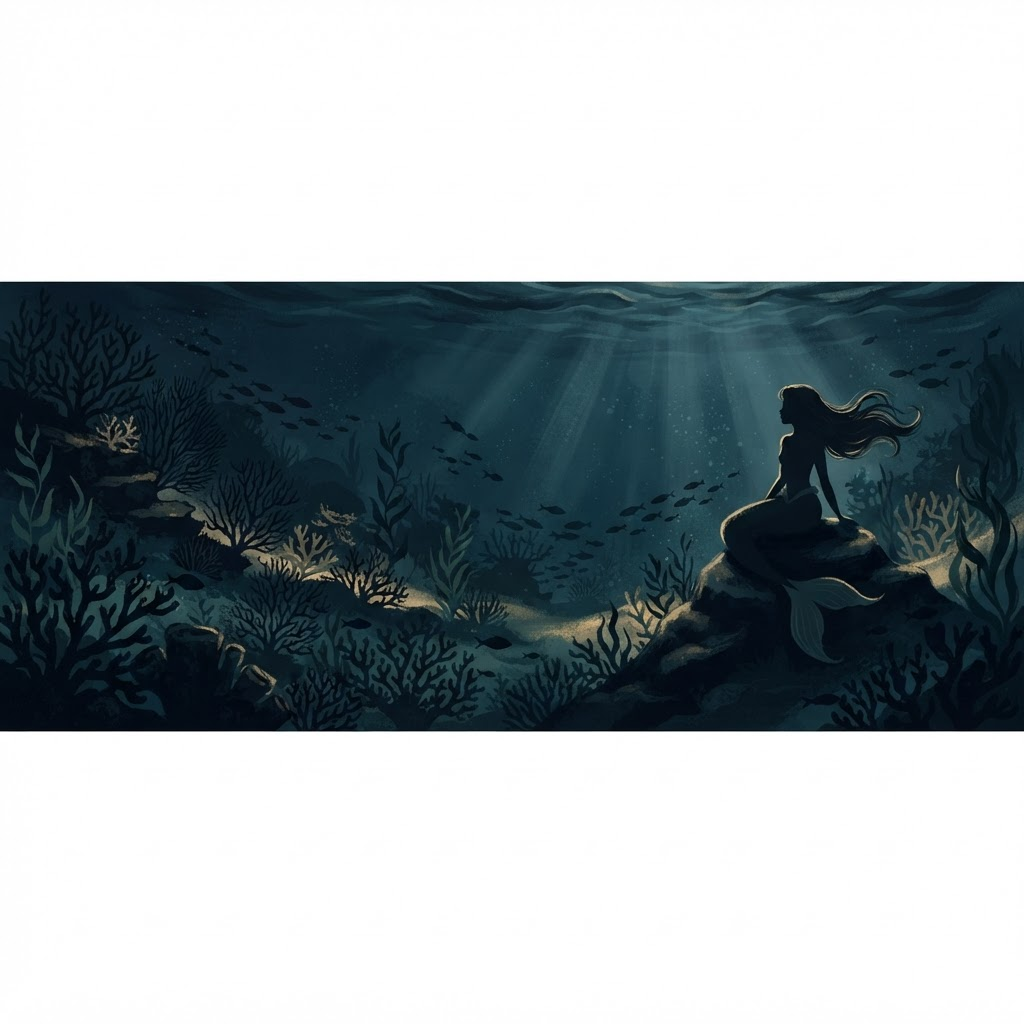
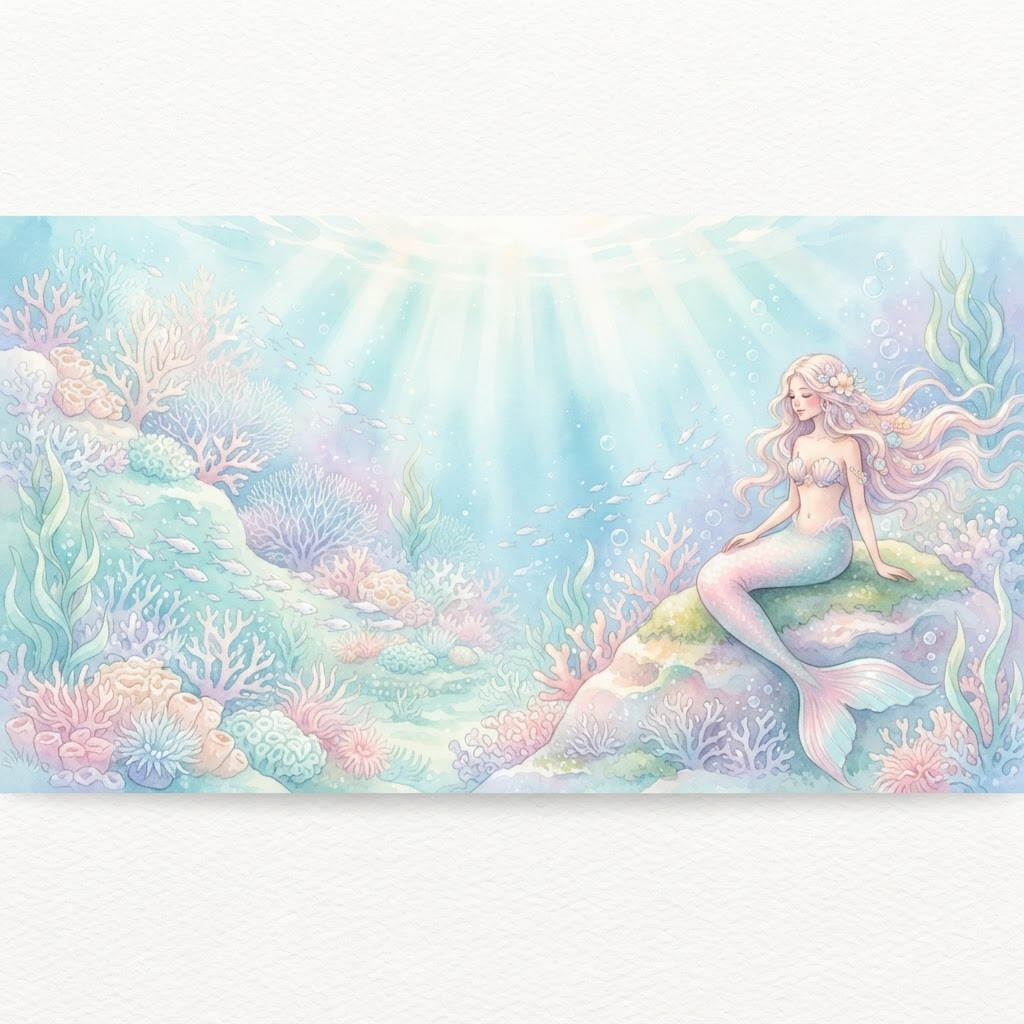
feat: switch app theme from dark to light palette

diff --git a/components/bottle-tide.tsx b/components/bottle-tide.tsx
@@ -113,7 +113,7 @@ export function BottleTide({ initialStats }: { initialStats: OceanStats }) {
         {/* ---------- Cast a bottle ---------- */}
         <section
           aria-labelledby="cast-heading"
-          className="rounded-3xl border border-border bg-card/70 p-6 shadow-[0_20px_60px_oklch(0.13_0.04_248/45%)] backdrop-blur-md sm:p-8"
+          className="rounded-3xl border border-border bg-card/80 p-6 shadow-[0_18px_50px_oklch(0.6_0.098_254/18%)] backdrop-blur-md sm:p-8"
         >
           <header className="flex items-center gap-3">
             <span className="flex size-11 items-center justify-center rounded-full bg-primary/15 text-primary">
@@ -137,7 +137,7 @@ export function BottleTide({ initialStats }: { initialStats: OceanStats }) {
             onChange={(event) => setMessage(event.target.value)}
             placeholder="Whisper it here - a confession, a hope, a warning for whoever finds this..."
             rows={5}
-            className="mt-5 w-full resize-none rounded-2xl border border-input bg-[oklch(0.16_0.045_246/70%)] p-4 text-base leading-relaxed text-foreground placeholder:text-muted-foreground/70 focus-visible:border-ring focus-visible:ring-3 focus-visible:ring-ring/30 focus-visible:outline-none"
+            className="mt-5 w-full resize-none rounded-2xl border border-input bg-secondary/45 p-4 text-base leading-relaxed text-foreground placeholder:text-muted-foreground/70 focus-visible:border-ring focus-visible:ring-3 focus-visible:ring-ring/30 focus-visible:outline-none"
           />
 
           <div className="mt-3 flex items-center justify-between text-xs text-muted-foreground">
@@ -169,10 +169,10 @@ export function BottleTide({ initialStats }: { initialStats: OceanStats }) {
         {/* ---------- Catch a bottle ---------- */}
         <section
           aria-labelledby="catch-heading"
-          className="flex flex-col rounded-3xl border border-border bg-card/70 p-6 shadow-[0_20px_60px_oklch(0.13_0.04_248/45%)] backdrop-blur-md sm:p-8"
+          className="flex flex-col rounded-3xl border border-border bg-card/80 p-6 shadow-[0_18px_50px_oklch(0.6_0.098_254/18%)] backdrop-blur-md sm:p-8"
         >
           <header className="flex items-center gap-3">
-            <span className="flex size-11 items-center justify-center rounded-full bg-accent/20 text-accent">
+            <span className="flex size-11 items-center justify-center rounded-full bg-accent/45 text-accent-foreground">
               <Anchor className="size-5" />
             </span>
             <div>
@@ -187,11 +187,11 @@ export function BottleTide({ initialStats }: { initialStats: OceanStats }) {
 
           <div className="mt-6 flex flex-1 flex-col justify-center">
             {caught ? (
-              <figure className="rounded-2xl border border-accent/35 bg-[oklch(0.93_0.045_86)] p-5 text-[oklch(0.28_0.05_60)] shadow-inner">
-                <blockquote className="font-serif text-lg leading-relaxed whitespace-pre-wrap text-pretty">
+              <figure className="rounded-2xl border border-accent/45 bg-[oklch(0.96_0.026_70)] p-5 text-accent-foreground shadow-inner">
+                <blockquote className="text-lg leading-relaxed whitespace-pre-wrap text-pretty italic">
                   {caught.message}
                 </blockquote>
-                <figcaption className="mt-4 flex items-center justify-between border-t border-[oklch(0.28_0.05_60/20%)] pt-3 text-xs tracking-widest uppercase">
+                <figcaption className="mt-4 flex items-center justify-between border-t border-accent/50 pt-3 text-xs tracking-widest uppercase">
                   <span>from a stranger</span>
                   <span>{timeAdrift(caught.createdAt)}</span>
                 </figcaption>
@@ -212,7 +212,7 @@ export function BottleTide({ initialStats }: { initialStats: OceanStats }) {
             disabled={!sailorId || pending !== null}
             variant="outline"
             size="lg"
-            className="mt-6 h-12 w-full rounded-2xl border-accent/40 bg-accent/10 text-base text-accent hover:bg-accent/20 hover:text-accent"
+            className="mt-6 h-12 w-full rounded-2xl border-accent/60 bg-accent/35 text-base text-accent-foreground hover:bg-accent/55 hover:text-accent-foreground"
           >
             {pending === 'receive'
               ? 'Reaching into the deep...'
@@ -224,7 +224,7 @@ export function BottleTide({ initialStats }: { initialStats: OceanStats }) {
       </div>
 
       {/* ---------- Tide log ---------- */}
-      <dl className="mt-6 grid grid-cols-3 gap-3 rounded-3xl border border-border bg-card/50 p-5 text-center backdrop-blur-md">
+      <dl className="mt-6 grid grid-cols-3 gap-3 rounded-3xl border border-border bg-card/70 p-5 text-center backdrop-blur-md">
         <div>
           <dt className="text-xs tracking-widest text-muted-foreground uppercase">Adrift now</dt>
           <dd className="mt-1 font-serif text-2xl text-primary">{stats.drifting}</dd>
@@ -235,7 +235,7 @@ export function BottleTide({ initialStats }: { initialStats: OceanStats }) {
         </div>
         <div>
           <dt className="text-xs tracking-widest text-muted-foreground uppercase">Fished out</dt>
-          <dd className="mt-1 font-serif text-2xl text-accent">{stats.totalCaught}</dd>
+          <dd className="mt-1 font-serif text-2xl text-accent-foreground">{stats.totalCaught}</dd>
         </div>
       </dl>
 

diff --git a/components/ocean-scene.tsx b/components/ocean-scene.tsx
@@ -44,7 +44,7 @@ function Fish({
           opacity="0.85"
         />
         <path d="M4 17 0 5c8 2 10 7 10 12S8 27 0 29z" fill={color} opacity="0.6" />
-        <circle cx="48" cy="14" r="2" fill="oklch(0.19 0.05 244)" />
+        <circle cx="48" cy="14" r="2" fill="oklch(0.34 0.078 274)" />
       </svg>
     </div>
   )
@@ -53,45 +53,51 @@ function Fish({
 export function OceanScene() {
   return (
     <div aria-hidden="true" className="pointer-events-none fixed inset-0 overflow-hidden">
-      {/* depth gradient: sunlit surface fading to abyss */}
-      <div className="absolute inset-0 bg-[linear-gradient(180deg,oklch(0.36_0.09_215)_0%,oklch(0.27_0.07_232)_35%,oklch(0.19_0.055_244)_70%,oklch(0.13_0.04_248)_100%)]" />
+      {/* pastel dusk surface fading into soft aqua depth */}
+      <div className="absolute inset-0 bg-[linear-gradient(180deg,oklch(0.93_0.05_15)_0%,oklch(0.94_0.035_60)_14%,oklch(0.93_0.04_205)_38%,oklch(0.89_0.05_192)_66%,oklch(0.85_0.055_240)_100%)]" />
 
-      {/* light shafts */}
+      {/* soft light shafts */}
       <div
         data-motion
-        className="absolute -top-1/4 left-[8%] h-[150%] w-40 bg-[linear-gradient(180deg,oklch(0.9_0.08_195/45%),transparent)] blur-2xl"
+        className="absolute -top-1/4 left-[8%] h-[150%] w-40 bg-[linear-gradient(180deg,oklch(0.99_0.02_60/85%),transparent)] blur-2xl"
         style={{ animation: 'caustics 11s ease-in-out infinite' }}
       />
       <div
         data-motion
-        className="absolute -top-1/4 left-[42%] h-[150%] w-24 bg-[linear-gradient(180deg,oklch(0.9_0.08_195/40%),transparent)] blur-2xl"
+        className="absolute -top-1/4 left-[42%] h-[150%] w-24 bg-[linear-gradient(180deg,oklch(0.97_0.04_20/70%),transparent)] blur-2xl"
         style={{ animation: 'caustics 14s ease-in-out 2s infinite' }}
       />
       <div
         data-motion
-        className="absolute -top-1/4 right-[16%] h-[150%] w-32 bg-[linear-gradient(180deg,oklch(0.9_0.08_195/35%),transparent)] blur-2xl"
+        className="absolute -top-1/4 right-[16%] h-[150%] w-32 bg-[linear-gradient(180deg,oklch(0.98_0.025_195/80%),transparent)] blur-2xl"
         style={{ animation: 'caustics 17s ease-in-out 4s infinite' }}
       />
 
       {/* reef + mermaid silhouette scene */}
       <div
         data-motion
-        className="absolute inset-x-0 bottom-0 h-[70vh] bg-cover bg-bottom bg-no-repeat opacity-60"
-        style={{ backgroundImage: 'url(/images/reef-scene.png)', animation: 'drift 40s ease-in-out infinite' }}
+        className="absolute -inset-x-[8%] bottom-0 h-[72vh] bg-cover bg-bottom bg-no-repeat opacity-70"
+        style={{
+          backgroundImage: 'url(/images/reef-scene.png)',
+          animation: 'drift 40s ease-in-out infinite',
+          maskImage:
+            'linear-gradient(180deg, transparent 0%, oklch(0 0 0 / 55%) 22%, black 55%), linear-gradient(90deg, transparent 0%, black 12%, black 88%, transparent 100%)',
+          maskComposite: 'intersect',
+        }}
       />
 
       {/* fish schools */}
-      <Fish top="18%" color="oklch(0.79 0.12 82)" duration="46s" delay="0s" scale={0.75} />
-      <Fish top="34%" color="oklch(0.75 0.13 195)" duration="62s" delay="6s" scale={1} />
-      <Fish top="52%" color="oklch(0.68 0.1 200)" duration="54s" delay="14s" scale={0.6} />
-      <Fish top="70%" color="oklch(0.79 0.12 82)" duration="72s" delay="22s" scale={0.9} />
+      <Fish top="18%" color="oklch(0.78 0.09 15)" duration="46s" delay="0s" scale={0.75} />
+      <Fish top="34%" color="oklch(0.66 0.09 250)" duration="62s" delay="6s" scale={1} />
+      <Fish top="52%" color="oklch(0.74 0.08 190)" duration="54s" delay="14s" scale={0.6} />
+      <Fish top="70%" color="oklch(0.78 0.09 15)" duration="72s" delay="22s" scale={0.9} />
 
       {/* rising bubbles */}
       {BUBBLES.map((bubble) => (
         <span
           key={bubble.left}
           data-motion
-          className="absolute bottom-0 rounded-full border border-[oklch(0.95_0.03_190/60%)] bg-[oklch(0.9_0.05_195/25%)]"
+          className="absolute bottom-0 rounded-full border border-[oklch(0.99_0.015_200/85%)] bg-[oklch(1_0_0/45%)]"
           style={{
             left: bubble.left,
             width: bubble.size,
@@ -104,15 +110,16 @@ export function OceanScene() {
       {/* foreground coral seabed */}
       <div
         data-motion
-        className="absolute inset-x-0 bottom-0 h-[30vh] bg-cover bg-bottom bg-no-repeat opacity-90"
+        className="absolute -inset-x-[6%] bottom-0 h-[32vh] bg-cover bg-bottom bg-no-repeat opacity-95"
         style={{
           backgroundImage: 'url(/images/coral-foreground.png)',
           animation: 'sway 18s ease-in-out infinite',
+          maskImage: 'linear-gradient(180deg, transparent 0%, oklch(0 0 0 / 60%) 28%, black 62%)',
         }}
       />
 
-      {/* vignette so text stays readable */}
-      <div className="absolute inset-0 bg-[radial-gradient(ellipse_at_center,transparent_25%,oklch(0.13_0.04_248/85%)_100%)]" />
+      {/* pale wash so text stays readable over the reef */}
+      <div className="absolute inset-0 bg-[radial-gradient(ellipse_at_center,oklch(0.97_0.02_205/72%)_0%,oklch(0.94_0.03_200/45%)_45%,oklch(0.85_0.055_240/30%)_100%)]" />
     </div>
   )
 }

diff --git a/app/globals.css b/app/globals.css
@@ -48,40 +48,48 @@
 }
 
 :root {
-  color-scheme: dark;
-  /* Ocean palette: deep abyss navy, aqua, foam, sandy gold */
-  --background: oklch(0.19 0.055 244);
-  --foreground: oklch(0.94 0.02 210);
-  --card: oklch(0.25 0.06 240);
-  --card-foreground: oklch(0.94 0.02 210);
-  --popover: oklch(0.25 0.06 240);
-  --popover-foreground: oklch(0.94 0.02 210);
-  --primary: oklch(0.75 0.13 195);
-  --primary-foreground: oklch(0.17 0.05 244);
-  --secondary: oklch(0.3 0.06 238);
-  --secondary-foreground: oklch(0.94 0.02 210);
-  --muted: oklch(0.28 0.05 240);
-  --muted-foreground: oklch(0.72 0.04 210);
-  --accent: oklch(0.79 0.12 82);
-  --accent-foreground: oklch(0.19 0.05 244);
-  --destructive: oklch(0.62 0.19 22);
-  --border: oklch(0.75 0.13 195 / 22%);
-  --input: oklch(0.75 0.13 195 / 18%);
-  --ring: oklch(0.75 0.13 195);
-  --chart-1: oklch(0.75 0.13 195);
-  --chart-2: oklch(0.79 0.12 82);
-  --chart-3: oklch(0.6 0.1 210);
-  --chart-4: oklch(0.45 0.08 235);
-  --chart-5: oklch(0.32 0.06 240);
+  color-scheme: light;
+  /* Pastel ocean-at-dusk palette:
+     seafoam mist, deep indigo ink, cornflower blue, blush pink, warm cream */
+  --sea-mist: oklch(0.94 0.028 200);
+  --sea-foam: oklch(0.89 0.048 190);
+  --sea-blue: oklch(0.6 0.098 254);
+  --sea-indigo: oklch(0.34 0.078 274);
+  --sea-blush: oklch(0.83 0.075 15);
+  --sea-cream: oklch(0.96 0.026 70);
+
+  --background: var(--sea-mist);
+  --foreground: var(--sea-indigo);
+  --card: oklch(0.985 0.012 210);
+  --card-foreground: var(--sea-indigo);
+  --popover: oklch(0.985 0.012 210);
+  --popover-foreground: var(--sea-indigo);
+  --primary: var(--sea-blue);
+  --primary-foreground: oklch(0.985 0.01 210);
+  --secondary: var(--sea-foam);
+  --secondary-foreground: var(--sea-indigo);
+  --muted: oklch(0.91 0.03 205);
+  --muted-foreground: oklch(0.52 0.055 268);
+  --accent: var(--sea-blush);
+  --accent-foreground: oklch(0.36 0.075 20);
+  --destructive: oklch(0.6 0.16 20);
+  --border: oklch(0.6 0.098 254 / 24%);
+  --input: oklch(0.6 0.098 254 / 20%);
+  --ring: var(--sea-blue);
+  --chart-1: var(--sea-blue);
+  --chart-2: oklch(0.74 0.08 190);
+  --chart-3: var(--sea-blush);
+  --chart-4: oklch(0.7 0.06 300);
+  --chart-5: var(--sea-indigo);
   --radius: 0.875rem;
-  --sidebar: oklch(0.22 0.055 242);
-  --sidebar-foreground: oklch(0.94 0.02 210);
-  --sidebar-primary: oklch(0.75 0.13 195);
-  --sidebar-primary-foreground: oklch(0.19 0.05 244);
-  --sidebar-accent: oklch(0.3 0.06 238);
-  --sidebar-accent-foreground: oklch(0.94 0.02 210);
-  --sidebar-border: oklch(0.75 0.13 195 / 22%);
-  --sidebar-ring: oklch(0.75 0.13 195);
+  --sidebar: oklch(0.97 0.02 205);
+  --sidebar-foreground: var(--sea-indigo);
+  --sidebar-primary: var(--sea-blue);
+  --sidebar-primary-foreground: oklch(0.985 0.01 210);
+  --sidebar-accent: var(--sea-foam);
+  --sidebar-accent-foreground: var(--sea-indigo);
+  --sidebar-border: oklch(0.6 0.098 254 / 24%);
+  --sidebar-ring: var(--sea-blue);
 }
 
 @layer base {

diff --git a/components/glass-bottle.tsx b/components/glass-bottle.tsx
@@ -7,15 +7,15 @@ export function GlassBottle({ className }: { className?: string }) {
       aria-label="Corked pirate glass bottle holding a rolled note"
     >
       {/* cork */}
-      <rect x="25" y="4" width="14" height="14" rx="3" fill="oklch(0.62 0.09 62)" />
-      <rect x="24" y="15" width="16" height="5" rx="2" fill="oklch(0.5 0.08 58)" />
+      <rect x="25" y="4" width="14" height="14" rx="3" fill="oklch(0.78 0.07 60)" />
+      <rect x="24" y="15" width="16" height="5" rx="2" fill="oklch(0.66 0.07 55)" />
       {/* neck */}
-      <rect x="27" y="19" width="10" height="18" fill="oklch(0.62 0.11 178 / 45%)" />
+      <rect x="27" y="19" width="10" height="18" fill="oklch(0.87 0.055 190 / 70%)" />
       {/* body */}
       <path
         d="M27 34c0 6-13 12-13 26v50c0 8 5 14 18 14s18-6 18-14V60c0-14-13-20-13-26z"
-        fill="oklch(0.62 0.13 182 / 42%)"
-        stroke="oklch(0.86 0.1 190 / 70%)"
+        fill="oklch(0.88 0.055 190 / 62%)"
+        stroke="oklch(0.72 0.07 200 / 85%)"
         strokeWidth="2"
       />
       {/* rolled note inside */}
@@ -26,7 +26,7 @@ export function GlassBottle({ className }: { className?: string }) {
         height="34"
         rx="4"
         transform="rotate(-8 32 83)"
-        fill="oklch(0.9 0.05 84)"
+        fill="oklch(0.96 0.026 70)"
       />
       <rect
         x="26"
@@ -35,7 +35,7 @@ export function GlassBottle({ className }: { className?: string }) {
         height="2"
         rx="1"
         transform="rotate(-8 32 83)"
-        fill="oklch(0.55 0.07 60 / 70%)"
+        fill="oklch(0.6 0.07 20 / 60%)"
       />
       <rect
         x="26"
@@ -44,7 +44,7 @@ export function GlassBottle({ className }: { className?: string }) {
         height="2"
         rx="1"
         transform="rotate(-8 32 83)"
-        fill="oklch(0.55 0.07 60 / 70%)"
+        fill="oklch(0.6 0.07 20 / 60%)"
       />
       <rect
         x="26"
@@ -53,7 +53,7 @@ export function GlassBottle({ className }: { className?: string }) {
         height="2"
         rx="1"
         transform="rotate(-8 32 83)"
-        fill="oklch(0.55 0.07 60 / 70%)"
+        fill="oklch(0.6 0.07 20 / 60%)"
       />
       {/* glass highlight */}
       <path
@@ -66,7 +66,7 @@ export function GlassBottle({ className }: { className?: string }) {
       {/* twine around the neck */}
       <path
         d="M26 24h12M26 29h12"
-        stroke="oklch(0.79 0.12 82)"
+        stroke="oklch(0.83 0.075 15)"
         strokeWidth="2"
         strokeLinecap="round"
       />

diff --git a/components/bottle-toss.tsx b/components/bottle-toss.tsx
@@ -13,13 +13,13 @@ export function BottleToss({
     <div
       role="status"
       aria-live="polite"
-      className="fixed inset-0 z-50 flex items-center justify-center bg-[oklch(0.13_0.04_248/72%)] backdrop-blur-sm"
+      className="fixed inset-0 z-50 flex items-center justify-center bg-[linear-gradient(180deg,oklch(0.95_0.04_20/88%),oklch(0.89_0.05_205/92%))] backdrop-blur-sm"
     >
       <div className="relative flex h-80 w-full max-w-md items-center justify-center">
         {/* splash ripples on the water line */}
         <span
           data-motion
-          className="absolute bottom-10 size-24 rounded-full border-2 border-primary/60"
+          className="absolute bottom-10 size-24 rounded-full border-2 border-primary/50"
           style={{ animation: 'ripple 1.6s ease-out 0.5s infinite' }}
         />
         <span
@@ -35,11 +35,11 @@ export function BottleToss({
             animation: `${mode === 'send' ? 'toss-away' : 'toss-in'} 2.2s ease-in-out forwards`,
           }}
         >
-          <GlassBottle className="h-40 w-auto drop-shadow-[0_10px_30px_oklch(0.75_0.13_195/45%)]" />
+          <GlassBottle className="h-40 w-auto drop-shadow-[0_12px_28px_oklch(0.6_0.098_254/35%)]" />
         </div>
       </div>
 
-      <p className="absolute bottom-24 px-6 text-center font-serif text-lg tracking-wide text-primary text-balance">
+      <p className="absolute bottom-24 px-6 text-center font-serif text-lg tracking-wide text-foreground text-balance">
         {label}
       </p>
     </div>

diff --git a/app/page.tsx b/app/page.tsx
@@ -15,7 +15,7 @@ export default async function Page() {
 
       <div className="relative mx-auto flex min-h-svh w-full max-w-5xl flex-col justify-center px-4 py-14 sm:px-6 sm:py-20">
         <header className="mb-10 text-center">
-          <p className="inline-flex items-center gap-2 rounded-full border border-border bg-card/60 px-4 py-1.5 text-xs tracking-[0.2em] text-primary uppercase backdrop-blur-md">
+          <p className="inline-flex items-center gap-2 rounded-full border border-border bg-card/80 px-4 py-1.5 text-xs tracking-[0.2em] text-primary uppercase backdrop-blur-md">
             <Shell className="size-3.5" />
             anonymous tides
           </p>

diff --git a/app/layout.tsx b/app/layout.tsx
@@ -31,8 +31,8 @@ export const metadata: Metadata = {
 }
 
 export const viewport: Viewport = {
-  colorScheme: 'dark',
-  themeColor: '#0a1f33',
+  colorScheme: 'light',
+  themeColor: '#dcedf2',
 }
 
 export default function RootLayout({
